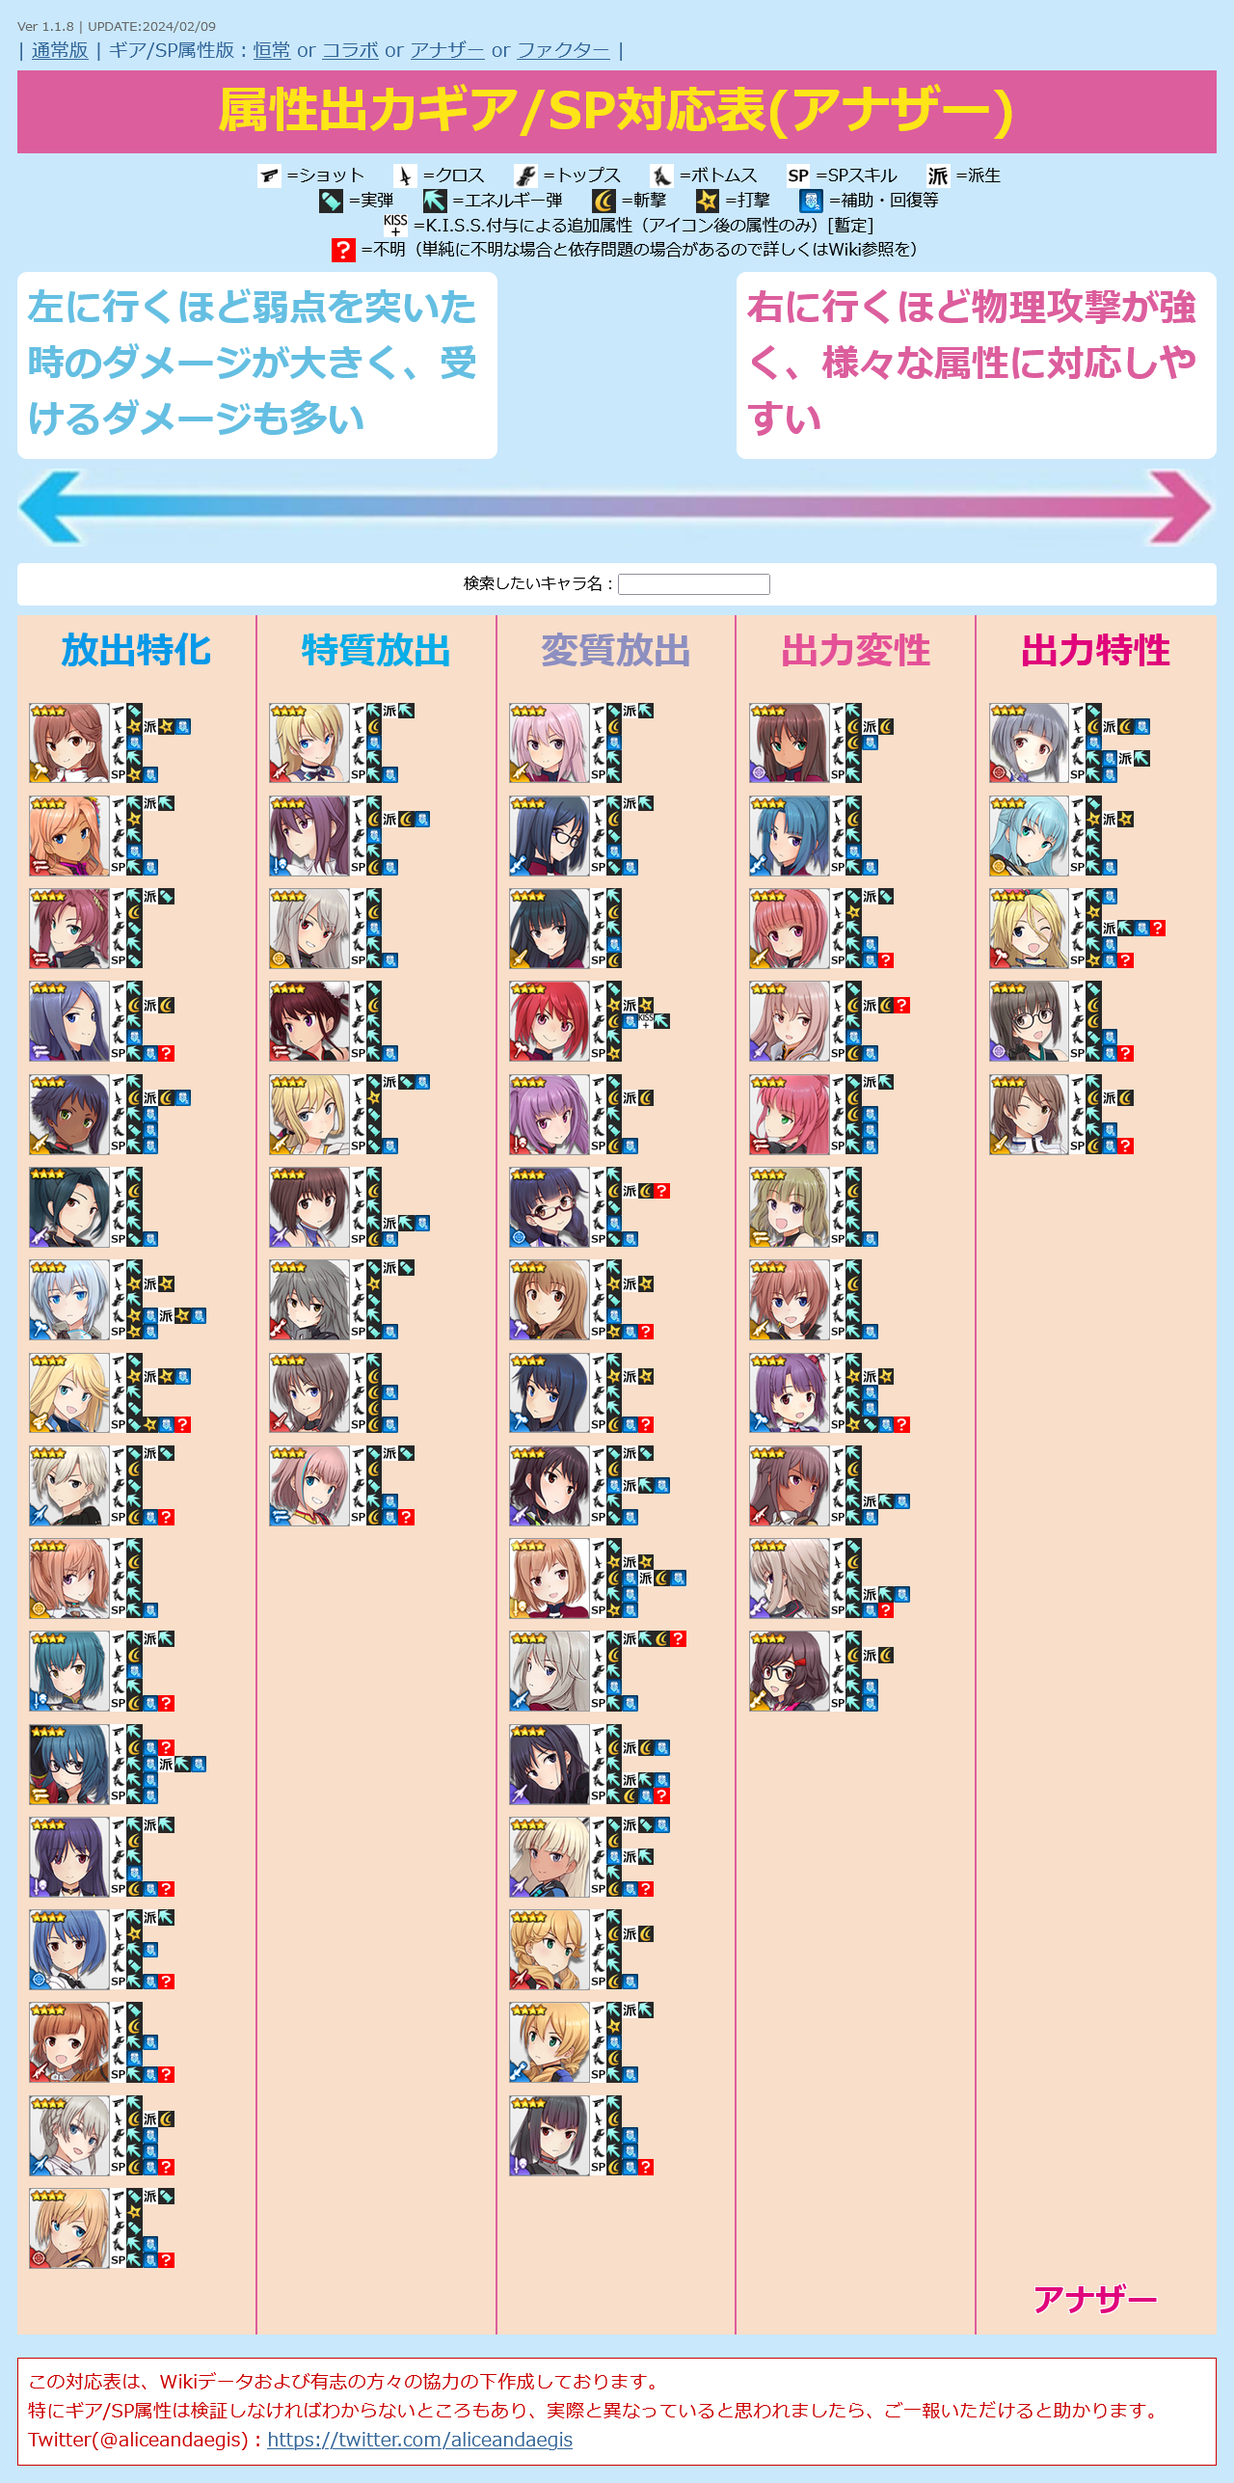
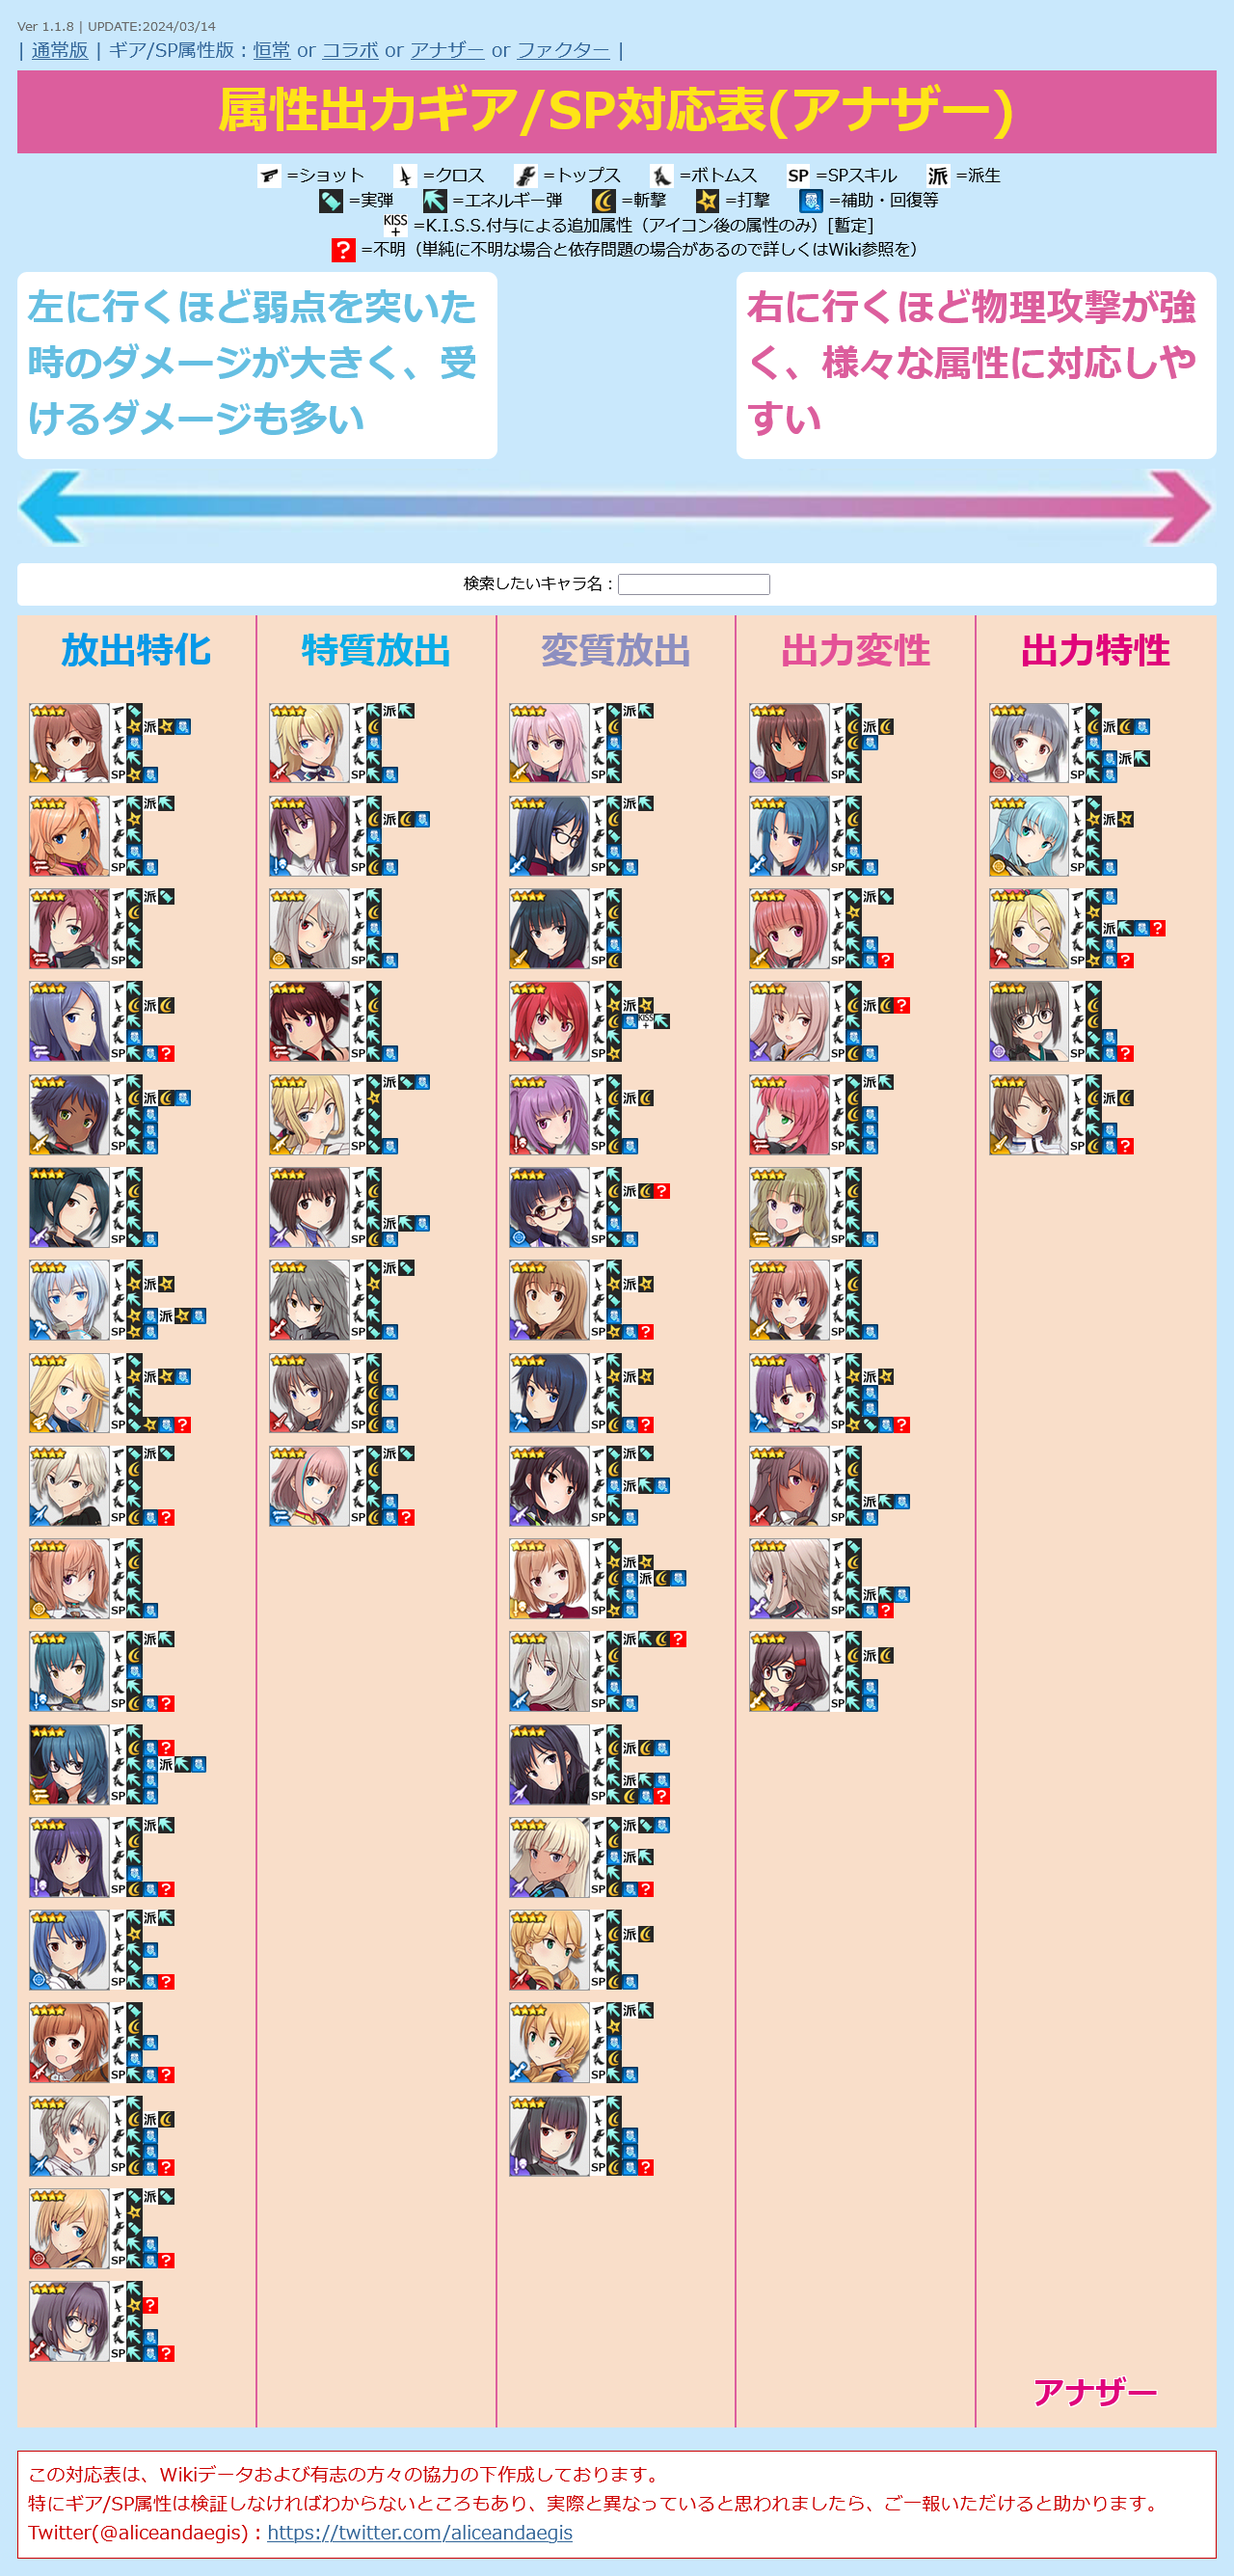
UPDATE charadata
・アナザー 駒添 絵伝 / 玄黄を追加

Changed region(s): [[0.0, 0.0, 1.0, 0.9942]]

diff --git a/alice.html b/alice.html
@@ -12,7 +12,7 @@
   <script>
 
 /* 更新情報 必要に応じて書き換えてください */
-  var version = "Ver 1.1.8 | UPDATE:2024/02/27";
+  var version = "Ver 1.1.8 | UPDATE:2024/03/14";
 
 
 /*
@@ -1999,6 +1999,20 @@
       "category": ""
     },
     {
+      "id": "61",
+      "type": "1",
+      "src": "another-eden.png",
+      "name": "駒添 絵伝 / 玄黄",
+      "equip1": "2",
+      "equip2": "4?",
+      "equip3": "2",
+      "equip4": "25",
+      "sp": "25?",
+      "attr": "3",
+      "link": "https://wikiwiki.jp/alicegear/%E9%A7%92%E6%B7%BB%E7%B5%B5%E4%BC%9D%E7%8E%84%E9%BB%84",
+      "category": "10"
+    },
+    {
       "id": "62",
       "type": "2",
       "src": "normal-noel.png",
@@ -2047,9 +2061,9 @@
       "name": "ニコル・フランシスカ",
       "equip1": "2",
       "equip2": "3",
-      "equip3": "?",
-      "equip4": "?",
-      "sp": "2?",
+      "equip3": "25",
+      "equip4": "35",
+      "sp": "3?",
       "attr": "4",
       "link": "https://wikiwiki.jp/alicegear/%E3%83%8B%E3%82%B3%E3%83%AB%E3%83%BB%E3%83%95%E3%83%A9%E3%83%B3%E3%82%B7%E3%82%B9%E3%82%AB",
       "category": ""
